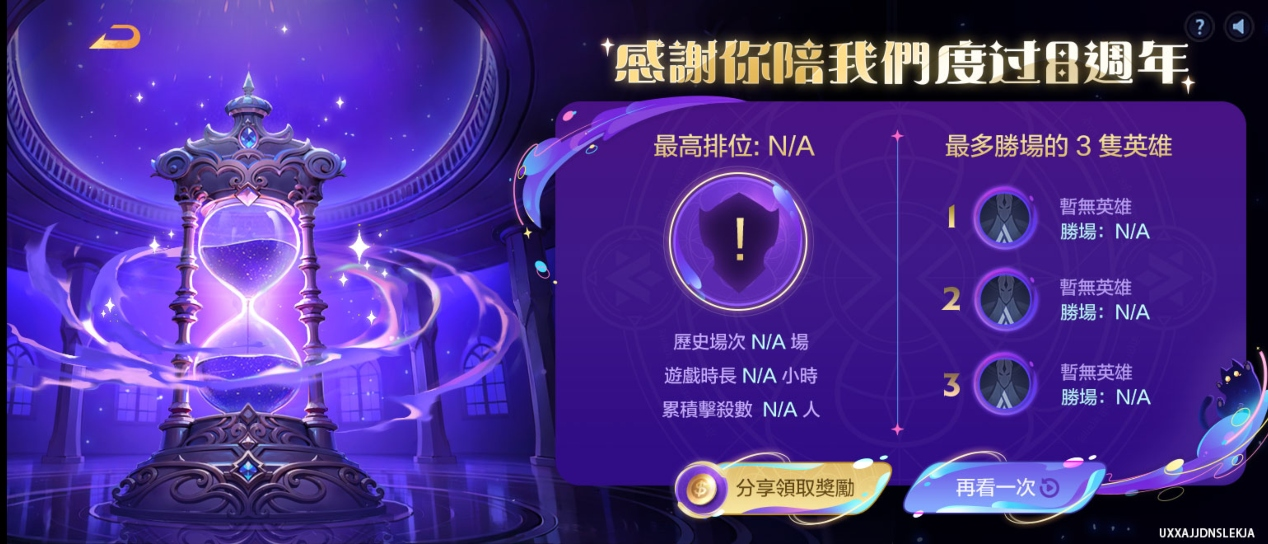
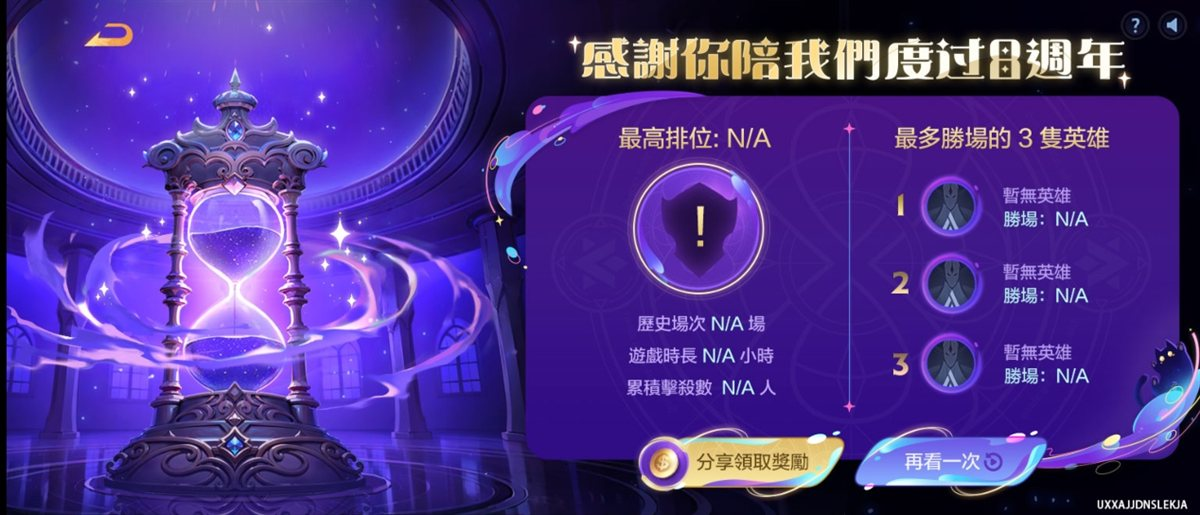
Compress 過往活動圖 photos to JPEG for faster load
Original PNG screenshots were 0.9-2MB each with no loading indicator
in the UI, so opening an activity detail felt like the photo was
missing while it downloaded. Re-encoded the photographic ones as
JPEG (quality 82), shrinking them to 95-165KB each.

Changed region(s): [[0.74, 0.2485, 0.925, 0.2796], [0.5242, 0.2485, 0.6475, 0.2796], [0.5858, 0.6214, 0.6167, 0.6524]]

diff --git a/js/mock-data.js b/js/mock-data.js
@@ -32,7 +32,7 @@ const MOCK_ACTIVITIES = [
     mechanism: '向皇上大聲請安，並躲過其他嬪妃的阻撓，考驗反應速度。',
     mechanismTags: ['劇情回顧'], purposeTags: [], specialTags: ['IP聯動'],
     metrics: { visitRate: 21.57, completionRate: 4.24 },
-    referenceLink: '', images: ['過往活動圖/宮中一夢.png'], createdBy: '歷史活動彙整',
+    referenceLink: '', images: ['過往活動圖/宮中一夢.jpg'], createdBy: '歷史活動彙整',
   },
   {
     id: 'seed_04', name: '新年祈福光明燈', dateText: '2025/01/24 16:00–02/03 23:59',
@@ -70,7 +70,7 @@ const MOCK_ACTIVITIES = [
     mechanism: '心理測驗形式，依作答結果分派鑑定結果。',
     mechanismTags: ['心理測驗'], purposeTags: ['提升非對局在線時長'], specialTags: [],
     metrics: { visitRate: 42.35, completionRate: 32.64 },
-    referenceLink: '', images: ['過往活動圖/貓蟲鑑定送永久表情.png'], createdBy: '歷史活動彙整',
+    referenceLink: '', images: ['過往活動圖/貓蟲鑑定送永久表情.jpg'], createdBy: '歷史活動彙整',
   },
   {
     id: 'seed_13', name: '安奈特的夏日冰坊', dateText: '2024/6/19 10:00–7/7 23:59',
@@ -110,7 +110,7 @@ const MOCK_ACTIVITIES = [
     mechanism: '拚手速點擊累積咒力，累積達標完成積分挑戰。',
     mechanismTags: ['反應操作'], purposeTags: ['提升非對局在線時長'], specialTags: ['IP聯動'],
     metrics: { visitRate: 30.68, completionRate: 10.78 },
-    referenceLink: '', images: ['過往活動圖/咒力輸出挑戰.png'], createdBy: '歷史活動彙整',
+    referenceLink: '', images: ['過往活動圖/咒力輸出挑戰.jpg'], createdBy: '歷史活動彙整',
   },
   {
     id: 'seed_25', name: '誰是你的幸運女神', dateText: '2023/3/25 00:00–4/6 23:59',
@@ -119,7 +119,7 @@ const MOCK_ACTIVITIES = [
     description: '資源上架：艾瑞的比心（41322）。',
     mechanism: '心理測驗形式。',
     mechanismTags: ['心理測驗'], purposeTags: ['提升非對局在線時長'], specialTags: [], metrics: null,
-    referenceLink: '', images: ['過往活動圖/誰是你的幸運女神.png'], createdBy: '歷史活動彙整',
+    referenceLink: '', images: ['過往活動圖/誰是你的幸運女神.jpg'], createdBy: '歷史活動彙整',
   },
   {
     id: 'seed_26', name: '嘉年華樂園', dateText: '2023/4/29–5/14',
@@ -128,7 +128,7 @@ const MOCK_ACTIVITIES = [
     description: '',
     mechanism: '射箭、打地鼠、放映廳等多款小遊戲合輯。',
     mechanismTags: ['反應操作'], purposeTags: ['提升非對局在線時長'], specialTags: [], metrics: null,
-    referenceLink: '', images: ['過往活動圖/H5 嘉年華樂園.png'], createdBy: '歷史活動彙整',
+    referenceLink: '', images: ['過往活動圖/H5 嘉年華樂園.jpg'], createdBy: '歷史活動彙整',
   },
   {
     id: 'seed_29', name: '週年慶回憶錄', dateText: '',
